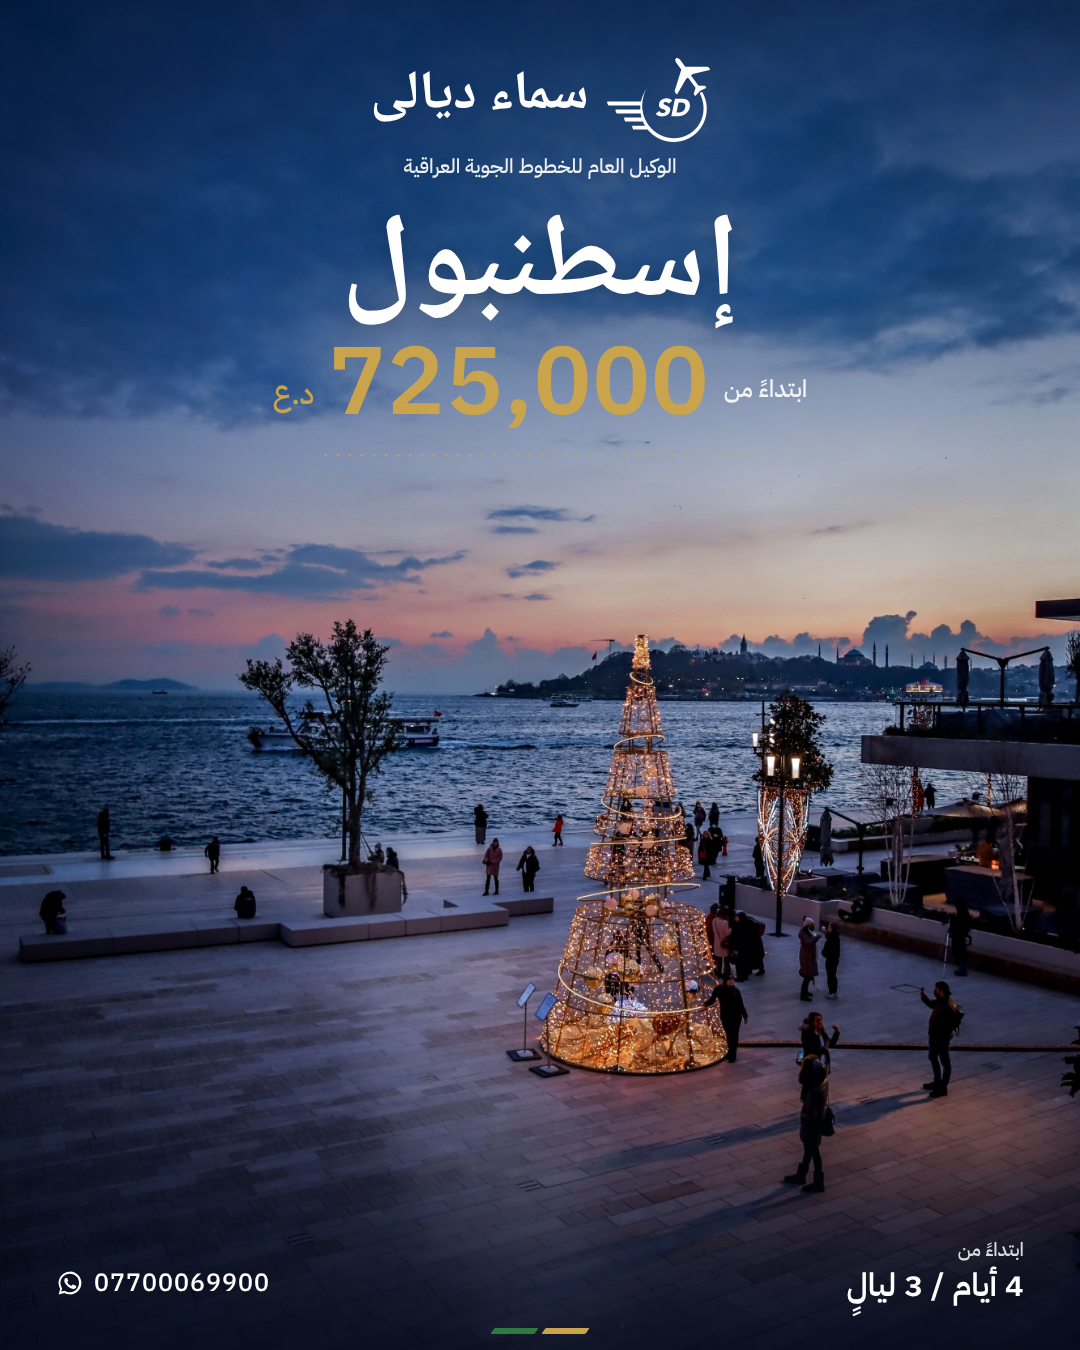
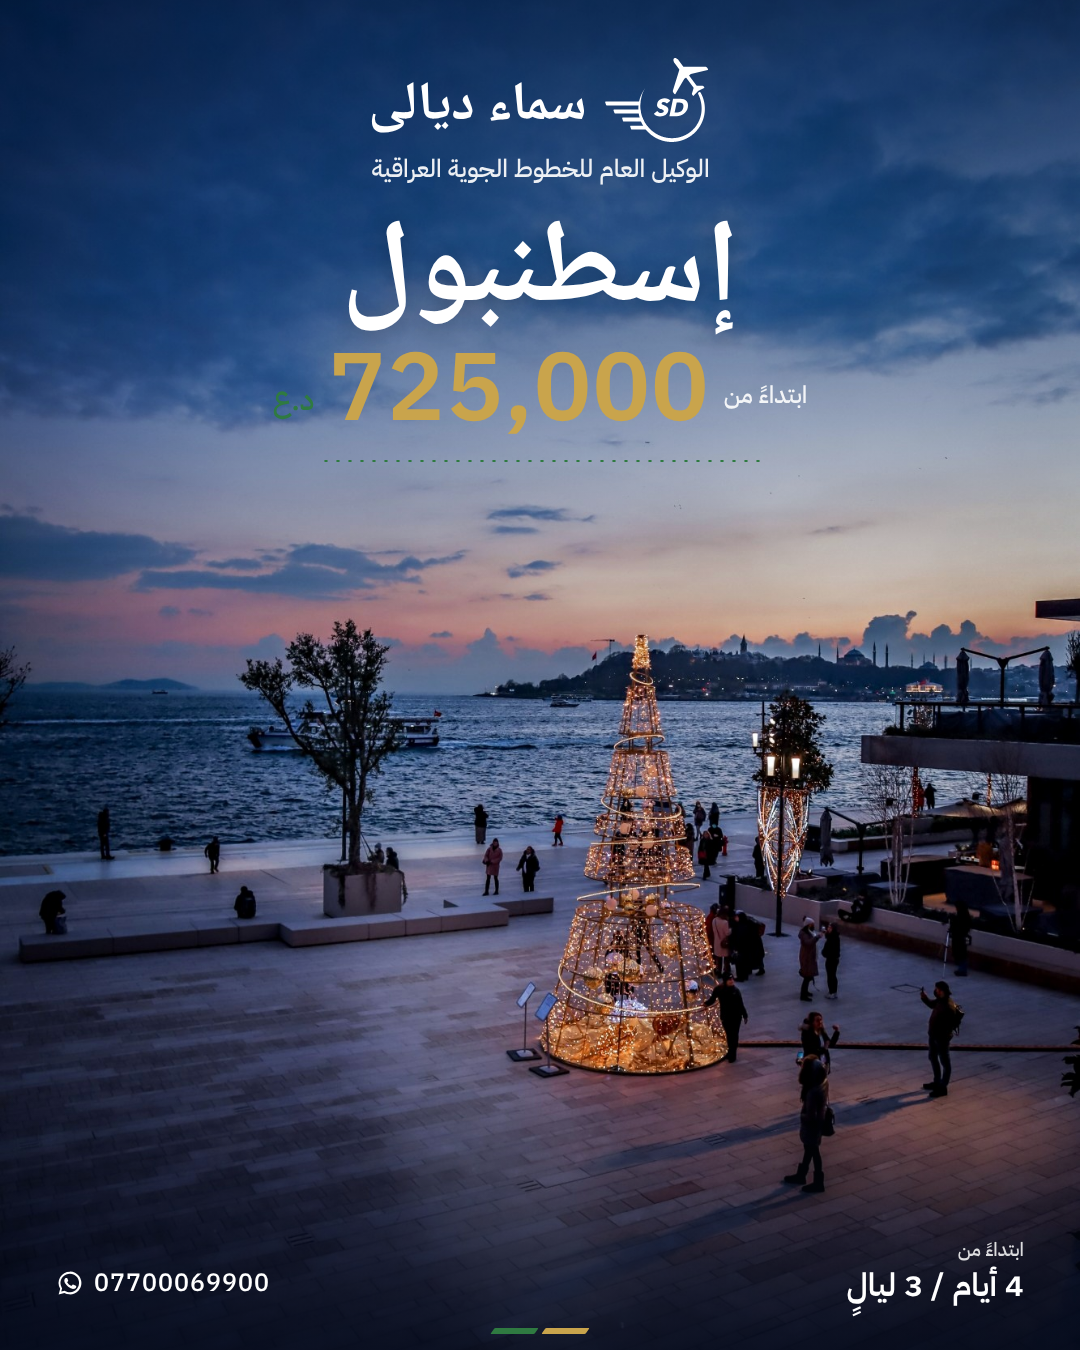
إعلان إسطنبول: ضبط الترويسة بالقياس، والنقاط والعملة بالأخضر للتجربة
Claude-Session: https://claude.ai/code/session_01EprWPUJDuKvYHn821imCPv

Changed region(s): [[0.2444, 0.0311, 0.7028, 0.3422], [0.6722, 0.28, 0.7333, 0.3111]]

diff --git a/09-التصاميم/إعلان إسطنبول رأس السنة/إعلان.html b/09-التصاميم/إعلان إسطنبول رأس السنة/إعلان.html
@@ -16,7 +16,9 @@
     --green:#0E4D2C; --mid:#2F7A41; --gold:#C9A44C; --light:#E9F2EA; --white:#FFFFFF;
     --ink:#FFFFFF;          /* single logo/text colour, chosen per background */
     --accent:var(--gold);   /* price colour */
-    --img-y:-110px;          /* vertical position of the photo (1080 x 1620 after scaling) */
+    --img-y:-110px;
+    --lock-dx:-1.9px; --name-dy:11px; --tag-size:24.78px; --tag-dx:0.5px;   /* header fine-tuning */
+    --dots:#2F7A41;         /* perforation dots + currency (test: green) */          /* vertical position of the photo (1080 x 1620 after scaling) */
   }
   *{margin:0;padding:0;box-sizing:border-box}
   html,body{width:1080px;height:1350px;overflow:hidden;background:#07122b}
@@ -33,17 +35,21 @@
   .brand{display:inline-flex;flex-direction:column;align-items:stretch}
   .lockup{display:flex;align-items:center;justify-content:center;gap:18px}
   .lockup img{height:84px;display:block}
-  .lockup .name{font-family:Naskh;font-weight:700;font-size:54px;line-height:1;padding-bottom:8px;white-space:nowrap}
-  .tag{margin-top:12px;font-family:Plex;font-weight:500;line-height:1.2;white-space:nowrap;text-align:center;opacity:.92}
+  .lockup{transform:translateX(var(--lock-dx))}
+  .lockup .name{font-family:Naskh;font-weight:700;font-size:54px;line-height:1;padding-bottom:8px;white-space:nowrap;
+                transform:translateY(var(--name-dy))}
+  /* tagline ink is matched to the ink width of logo + name (measured, see 07-أدوات/ad_header_measure) */
+  .tag{margin:12px auto 0;width:max-content;font-family:Plex;font-weight:500;font-size:var(--tag-size);line-height:1.2;
+       white-space:nowrap;text-align:center;opacity:.92;transform:translateX(var(--tag-dx))}
 
   .dest{margin-top:30px;font-family:Naskh;font-weight:700;font-size:118px;line-height:1.05;
         text-shadow:0 2px 24px rgba(0,0,0,.25)}
   .price{margin-top:2px;display:flex;align-items:baseline;gap:14px;color:var(--accent)}
   .price .from{font-family:Plex;font-weight:500;font-size:24px;color:var(--ink);opacity:.9;align-self:center;padding-top:14px}
   .price .num{font-family:Plex;font-weight:600;font-size:96px;line-height:1;direction:ltr;letter-spacing:1px}
-  .price .cur{font-family:Plex;font-weight:500;font-size:30px;position:relative;top:-10px}
+  .price .cur{font-family:Plex;font-weight:500;font-size:30px;position:relative;top:-10px;color:var(--dots)}
   .perf{margin-top:24px;width:440px;height:2px;
-        background-image:radial-gradient(circle,rgba(201,164,76,.85) 1.2px,transparent 1.6px);
+        background-image:radial-gradient(circle,var(--dots) 1.4px,transparent 1.8px);
         background-size:12px 2px;background-repeat:repeat-x}
 
   /* ---- footer ---- */
@@ -90,32 +96,6 @@
   </div>
   <div class="stripes"><i></i><i></i></div>
 </div>
-<script>
-  // tagline exactly as wide as logo + name; stretch with kashida only if the size would get too large
-  (async () => {
-    await document.fonts.ready;
-    const tag = document.getElementById('tag'), lock = document.getElementById('lockup');
-    const target = lock.getBoundingClientRect().width;
-    const MAX = 26, base = 'الوكيل العام للخطوط الجوية العراقية';
-    const kashSpots = ['الوكـيل','العـام','للخطـوط','الجـوية','العـراقية'];
-    tag.style.fontSize = '20px';
-    let size = 20 * target / tag.getBoundingClientRect().width;
-    if (size <= MAX) { tag.style.fontSize = size + 'px'; }
-    else {
-      tag.style.fontSize = MAX + 'px';
-      const words = base.split(' ');
-      let n = 0;
-      while (tag.getBoundingClientRect().width < target - 2 && n < 40) {
-        const i = n % words.length;
-        const w = words[i], k = kashSpots[i].indexOf('ـ');
-        const pos = w.indexOf('ـ') >= 0 ? w.indexOf('ـ') : k;
-        words[i] = w.slice(0, pos) + 'ـ' + w.slice(pos);
-        tag.textContent = words.join(' ');
-        n++;
-      }
-    }
-    document.body.dataset.ready = '1';
-  })();
-</script>
+<script>document.fonts.ready.then(()=>{document.body.dataset.ready='1'})</script>
 </body>
 </html>

diff --git a/07-أدوات/ad_header_measure/measure.js b/07-أدوات/ad_header_measure/measure.js
@@ -1,0 +1,14 @@
+// measures ink bounds (device px at scale 4) of logo, name, tagline with photo hidden
+const {chromium}=require('playwright');
+(async()=>{
+  const [src,css]=process.argv.slice(2);
+  const b=await chromium.launch({args:['--allow-file-access-from-files']});
+  const p=await b.newPage({viewport:{width:1080,height:1350},deviceScaleFactor:4});
+  await p.goto('file://'+src); await p.waitForFunction(()=>document.body.dataset.ready==='1');
+  await p.addStyleTag({content:'.photo,.shade-top,.shade-bot,.dest,.price,.perf,.foot,.stripes{visibility:hidden!important} .ad{background:#000!important} '+(css||'')});
+  await p.waitForTimeout(150);
+  const r=await p.evaluate(()=>{const g=id=>{const e=document.querySelector(id).getBoundingClientRect();return [e.left,e.top,e.right,e.bottom]};return {logo:g('.lockup img'),name:g('.lockup .name'),tag:g('#tag')}});
+  const buf=await p.screenshot({clip:{x:0,y:0,width:1080,height:260}});
+  require('fs').writeFileSync(process.env.OUT||'/dev/null',buf);
+  console.log(JSON.stringify(r)); await b.close();
+})();

diff --git a/07-أدوات/ad_header_measure/render_ad.js b/07-أدوات/ad_header_measure/render_ad.js
@@ -1,0 +1,10 @@
+const {chromium}=require('playwright');
+(async()=>{
+  const [src,out,w,h,scale]=process.argv.slice(2);
+  const b=await chromium.launch({args:['--allow-file-access-from-files']});
+  const p=await b.newPage({viewport:{width:+w,height:+h},deviceScaleFactor:+(scale||1)});
+  await p.goto('file://'+src); await p.waitForFunction(()=>document.body.dataset.ready==='1',{timeout:15000});
+  await p.waitForTimeout(200);
+  console.log(await p.evaluate(()=>{const t=document.getElementById('tag'),l=document.getElementById('lockup');return [t.textContent,getComputedStyle(t).fontSize,t.getBoundingClientRect().width.toFixed(1),l.getBoundingClientRect().width.toFixed(1)].join(' | ')}));
+  await p.screenshot({path:out}); await b.close();
+})();

diff --git a/07-أدوات/ad_header_measure/ink.py b/07-أدوات/ad_header_measure/ink.py
@@ -1,0 +1,12 @@
+import json,sys,numpy as np
+from PIL import Image
+r=json.loads(sys.argv[1]); a=np.array(Image.open(sys.argv[2]).convert('L')); Z=4
+def ink(box,pad=6):
+    x0,y0,x1,y1=[int(round(v*Z)) for v in box]; x0-=pad*Z; x1+=pad*Z; y0=max(0,y0-pad*Z); y1+=pad*Z
+    sub=a[y0:y1,x0:x1]>60; ys,xs=np.where(sub)
+    return np.array([x0+xs.min(),y0+ys.min(),x0+xs.max()+1,y0+ys.max()+1])/Z
+L,N,T=ink(r['logo'],0),ink(r['name']),ink(r['tag'])
+print('logo',L.round(2)); print('name',N.round(2)); print('tag ',T.round(2))
+print('group x',round(min(L[0],N[0]),2),round(max(L[2],N[2]),2),'width',round(max(L[2],N[2])-min(L[0],N[0]),2))
+print('tag width',round(T[2]-T[0],2),'dx_left',round(T[0]-min(L[0],N[0]),2),'dx_right',round(T[2]-max(L[2],N[2]),2))
+lh=L[3]-L[1]; print('SD center y',round(L[1]+0.588*lh,2),'ring/bars center',round(L[1]+0.68*lh,2),'name center',round((N[1]+N[3])/2,2))

diff --git a/CLAUDE.md b/CLAUDE.md
@@ -70,7 +70,8 @@
 9- العنوان لا يوضع في الإعلان حالياً، حتى يُقرَّر غير ذلك.
 10- اللمسات الثلاث المعتمدة: خط تخريم منقّط رفيع بين منطقة السعر والصورة، والشريطان المائلان الرفيعان أسفل الإعلان، وتدرّج خفيف أعلى الصورة وأسفلها لوضوح النص.
 11- سير العمل: إحسان يرسل صورة الوجهة، فتُعالَج ألوانها وجوّها كما يطلب، ثم يبدأ التصميم.
-12- المقاس 1080×1350، ثم الستوري 1080×1920 والكاروسيل عند الحاجة. التفاصيل (الفندق، التواريخ، ما يشمله السعر) تُكتب في النص المرافق.
+12- ضبط الترويسة بالقياس الفعلي للحبر (`07-أدوات/ad_header_measure/`): "سماء ديالى" بمركز حروف SD في الرمز، وسطر الوكيل بعرض الرمز والاسم معاً بفارق أقل من نصف بكسل. القيم في متغيرات CSS أعلى قالب الإعلان.
+13- المقاس 1080×1350، ثم الستوري 1080×1920 والكاروسيل عند الحاجة. التفاصيل (الفندق، التواريخ، ما يشمله السعر) تُكتب في النص المرافق.
 
 ## قواعد ثابتة لكل التصاميم
 - السعر كاملاً بصيغة "725,000 د.ع".
